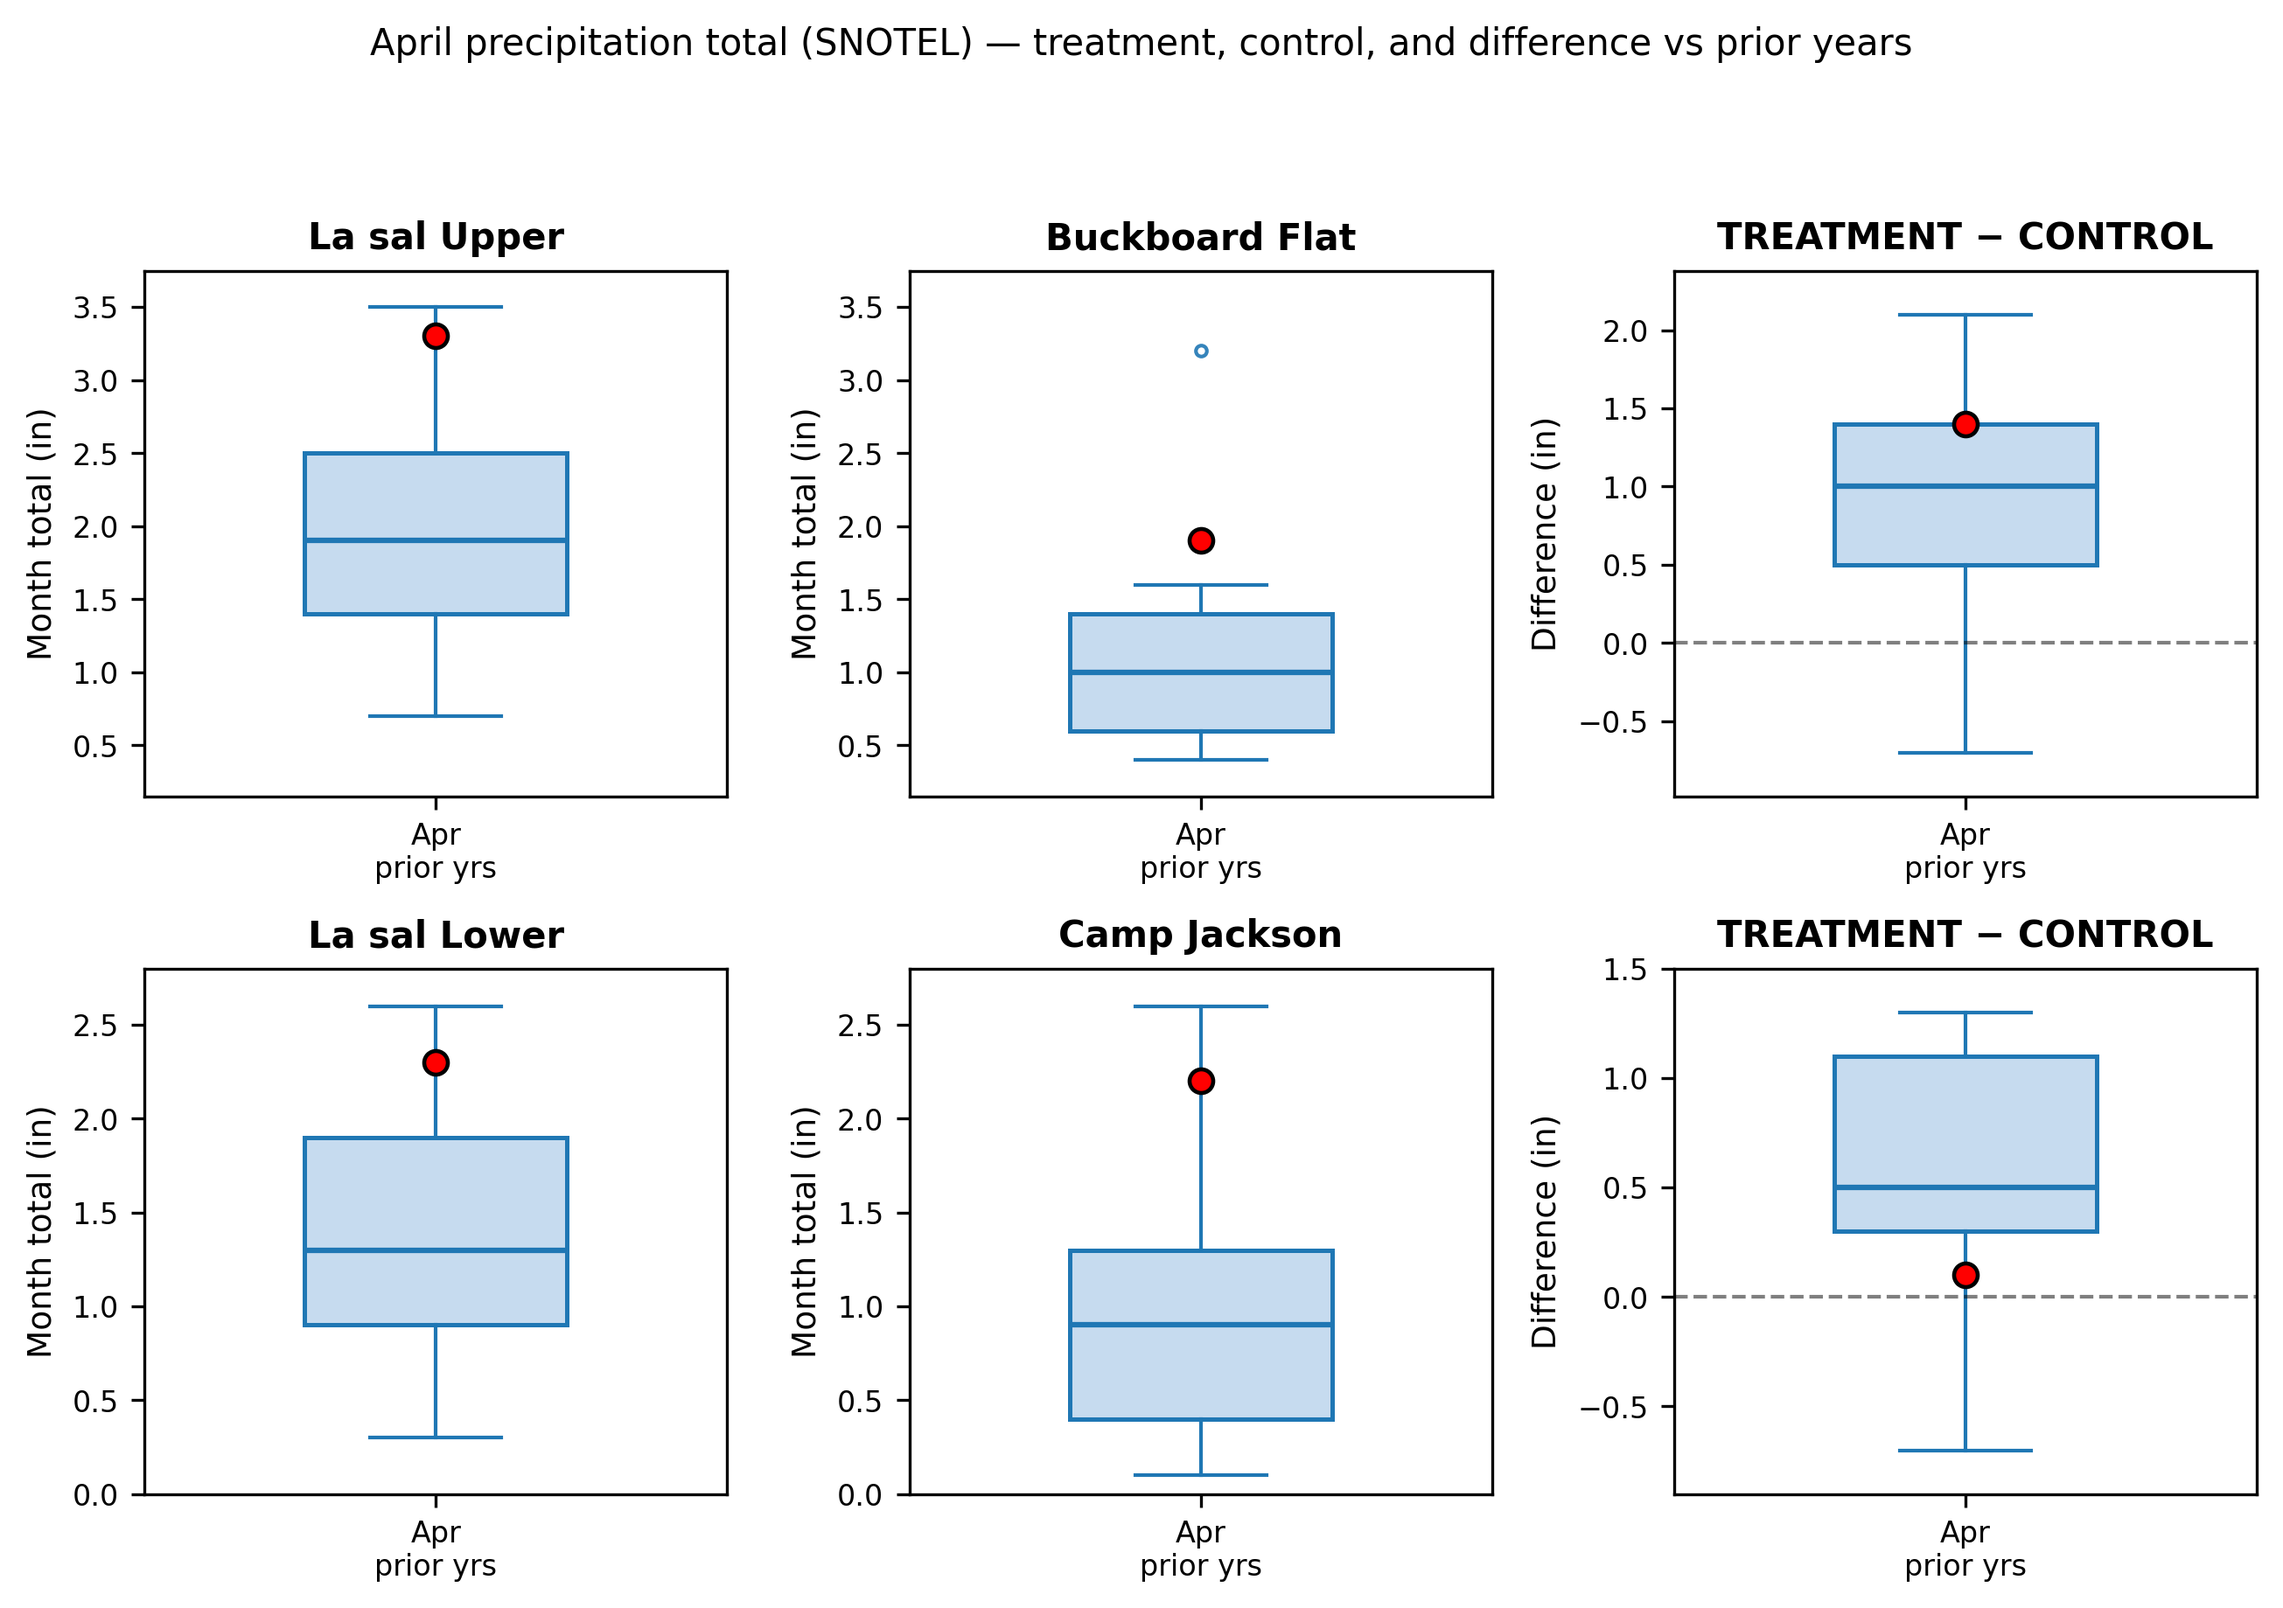
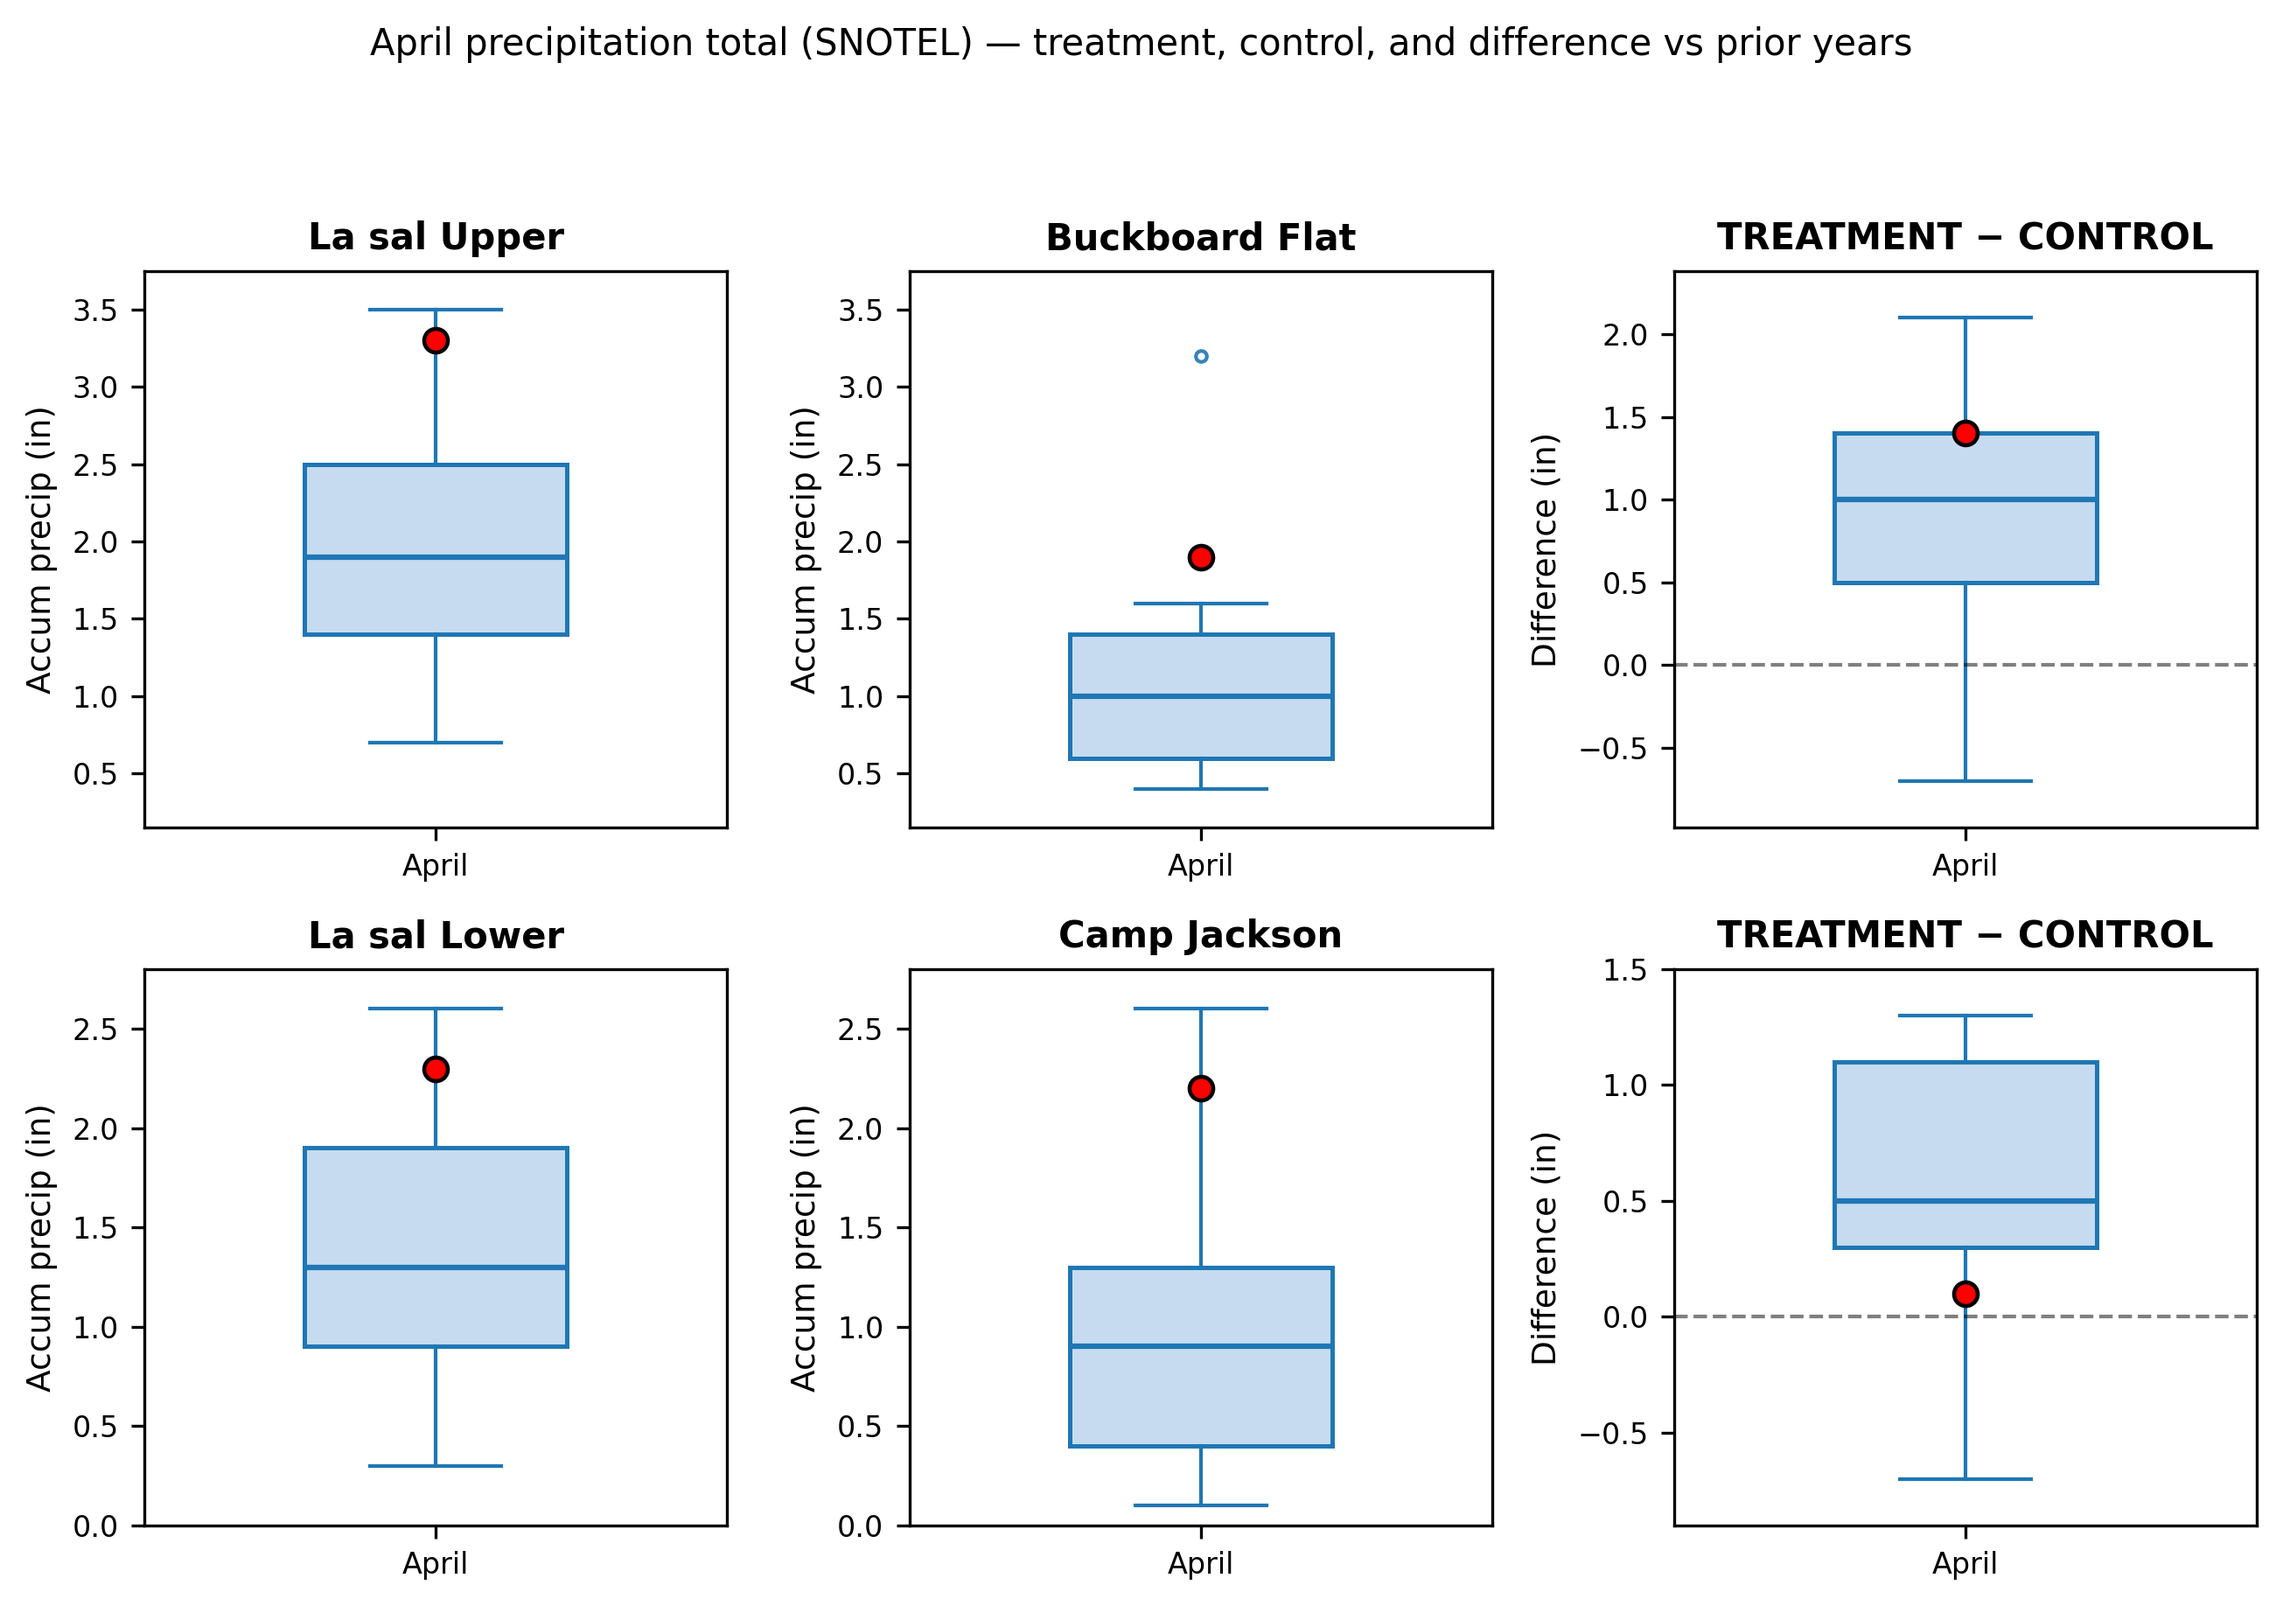
Precip month-total boxplot: label y as accum precip, x as month name.
Use full calendar month (e.g. April) for the boxplot x tick instead of
Apr/prior yrs. Set treatment and control y-axis to Accum precip (in).

diff --git a/scripts/plot_generators.py b/scripts/plot_generators.py
@@ -666,7 +666,7 @@ def plot_month_precip_total_climatology_treatments(
     fig, axes = plt.subplots(n_rows, 3, figsize=(8.8, 3.0 * n_rows), squeeze=False)
 
     clim_years = [y for y in range(climatology_start_year, year) if y < year]
-    box_label = f"{month_name[:3]}\nprior yrs"
+    box_label = month_name  # x-axis tick: calendar month only (e.g. April)
 
     for row, (treat, ctrl) in enumerate(pairs):
         ax_t = axes[row, 0]
@@ -724,8 +724,8 @@ def plot_month_precip_total_climatology_treatments(
             ax.set_title(title, fontsize=10, fontweight="bold")
             ax.tick_params(axis="both", labelsize=8)
 
-        ax_t.set_ylabel("Month total (in)", fontsize=9)
-        ax_c.set_ylabel("Month total (in)", fontsize=9)
+        ax_t.set_ylabel("Accum precip (in)", fontsize=9)
+        ax_c.set_ylabel("Accum precip (in)", fontsize=9)
         ax_d.set_ylabel("Difference (in)", fontsize=9)
         ax_d.axhline(0.0, color="black", linestyle="--", linewidth=1, alpha=0.5)
 
